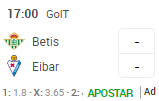
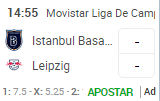
Tentativa de Adição do Carrossel em Deportes

diff --git a/index.html b/index.html
@@ -363,19 +363,52 @@
     <!-- Carrosel -->
 
     <div class="container p-2">
-        <h3>Deportes</h3>
+        <h4>Deportes</h4>
         <div class="row p-3">
-            <div class="teste col-1">
-
+            <div class="bgdeportes coluna1 col-1" style="border-right: 3px solid #ccc;">
+                <label for="resultados">
+                    <p>Resultados:</p>
+                </label>
+                <select name="" id="resultados">
+                    <option value="0">Todos</option>
+                    <option value="1">Champions League</option>
+                </select>
             </div>
 
-            <div class="teste col-11">
+            <!-- <div class="bgdeportes coluna2 col-11">
+                <p class="m-1">CHAMPIONS LEAGUE</p>
                 <div class="row">
-                <div style="font-size: 13px;" class="col-2">
-                    <p>LA LIGA SANTANDER</p>
-                    <img src="./img/jogos.png" alt="">
+                    <div class="col-2">
+                        <img src="./img/jogos.png" alt="">
+                    </div>
+                    <div class="col-2">
+                        <img src="./img/jogos.png" alt="">
+                    </div>
+                    <div class="col-2">
+                        <img src="./img/jogos.png" alt="">
+                    </div>
+                    <div class="col-2">
+                        <img src="./img/jogos.png" alt="">
+                    </div>
                 </div>
-            </div>
+            </div> -->
+
+            <div class="bgdeportes coluna2 col-11">
+                <p class="m-1">CHAMPIONS LEAGUE</p>
+                <div class="owl-carousel owl-theme">
+                    <div class="item">
+                        <img src="./img/jogos.png" alt="">
+                    </div>
+                    <div class="item">
+                        <img src="./img/jogos.png" alt="">
+                    </div>
+                    <div class="item">
+                        <img src="./img/jogos.png" alt="">
+                    </div>
+                    <div class="item">
+                        <img src="./img/jogos.png" alt="">
+                    </div>
+                </div>
             </div>
         </div>
     </div>
@@ -385,6 +418,12 @@
     <script type="text/javascript" src="./js/popper.min.js"></script>
     <script type="text/javascript" src="./js/bootstrap.js"></script>
     <script src="./owlCarousel/dist/owl.carousel.min.js"></script>
+
+    <script type="text/javascript">
+        $('.owl-carousel').owlCarousel({
+            items: 4
+        });
+    </script>
 </body>
 
 </html>

diff --git a/css/style.css b/css/style.css
@@ -28,6 +28,14 @@ h3{
     margin: 0;
 }
 
+h4{
+    font-family: 'Roboto Condensed', sans-serif;
+    text-transform: uppercase;
+    font-size: 16px;
+    font-weight: bold;
+    margin: 0;
+}
+
 ul{
     list-style-type: none;
     margin: 0;
@@ -165,7 +173,42 @@ ul{
     border-radius: 0;
 }
 
-.teste{
+.bgdeportes{
     height: 140px;
-    background-color: #D5DFE7;
+    background-color: #C3D5E5;
+}
+
+.coluna1{
+    padding: 6px;
+}
+
+.coluna1 select{
+    width: 100%;
+    font-size: 13px;
+    font-family: Arial, Helvetica, sans-serif;
+    padding: 4px 4px 4px 0px;
+    border: 0;
+}
+
+.coluna1 select:focus{
+    outline-style: none;
+}
+
+.coluna1 label p{
+    font-family: 'Roboto', 'Roboto Condensed', sans-serif;
+    font-size: 14px;
+    font-weight: bold;
+    margin: 0;
+    margin-top: 35px;
+}
+
+/* .coluna2{
+    padding: 8px 10px;
+}
+ */
+.coluna2 p{
+    /* margin: 0px 0px 10px 15px; */
+    font-family: 'Roboto Condensed', sans-serif;
+    font-weight: bold;
+    font-size: 14px;
 }
